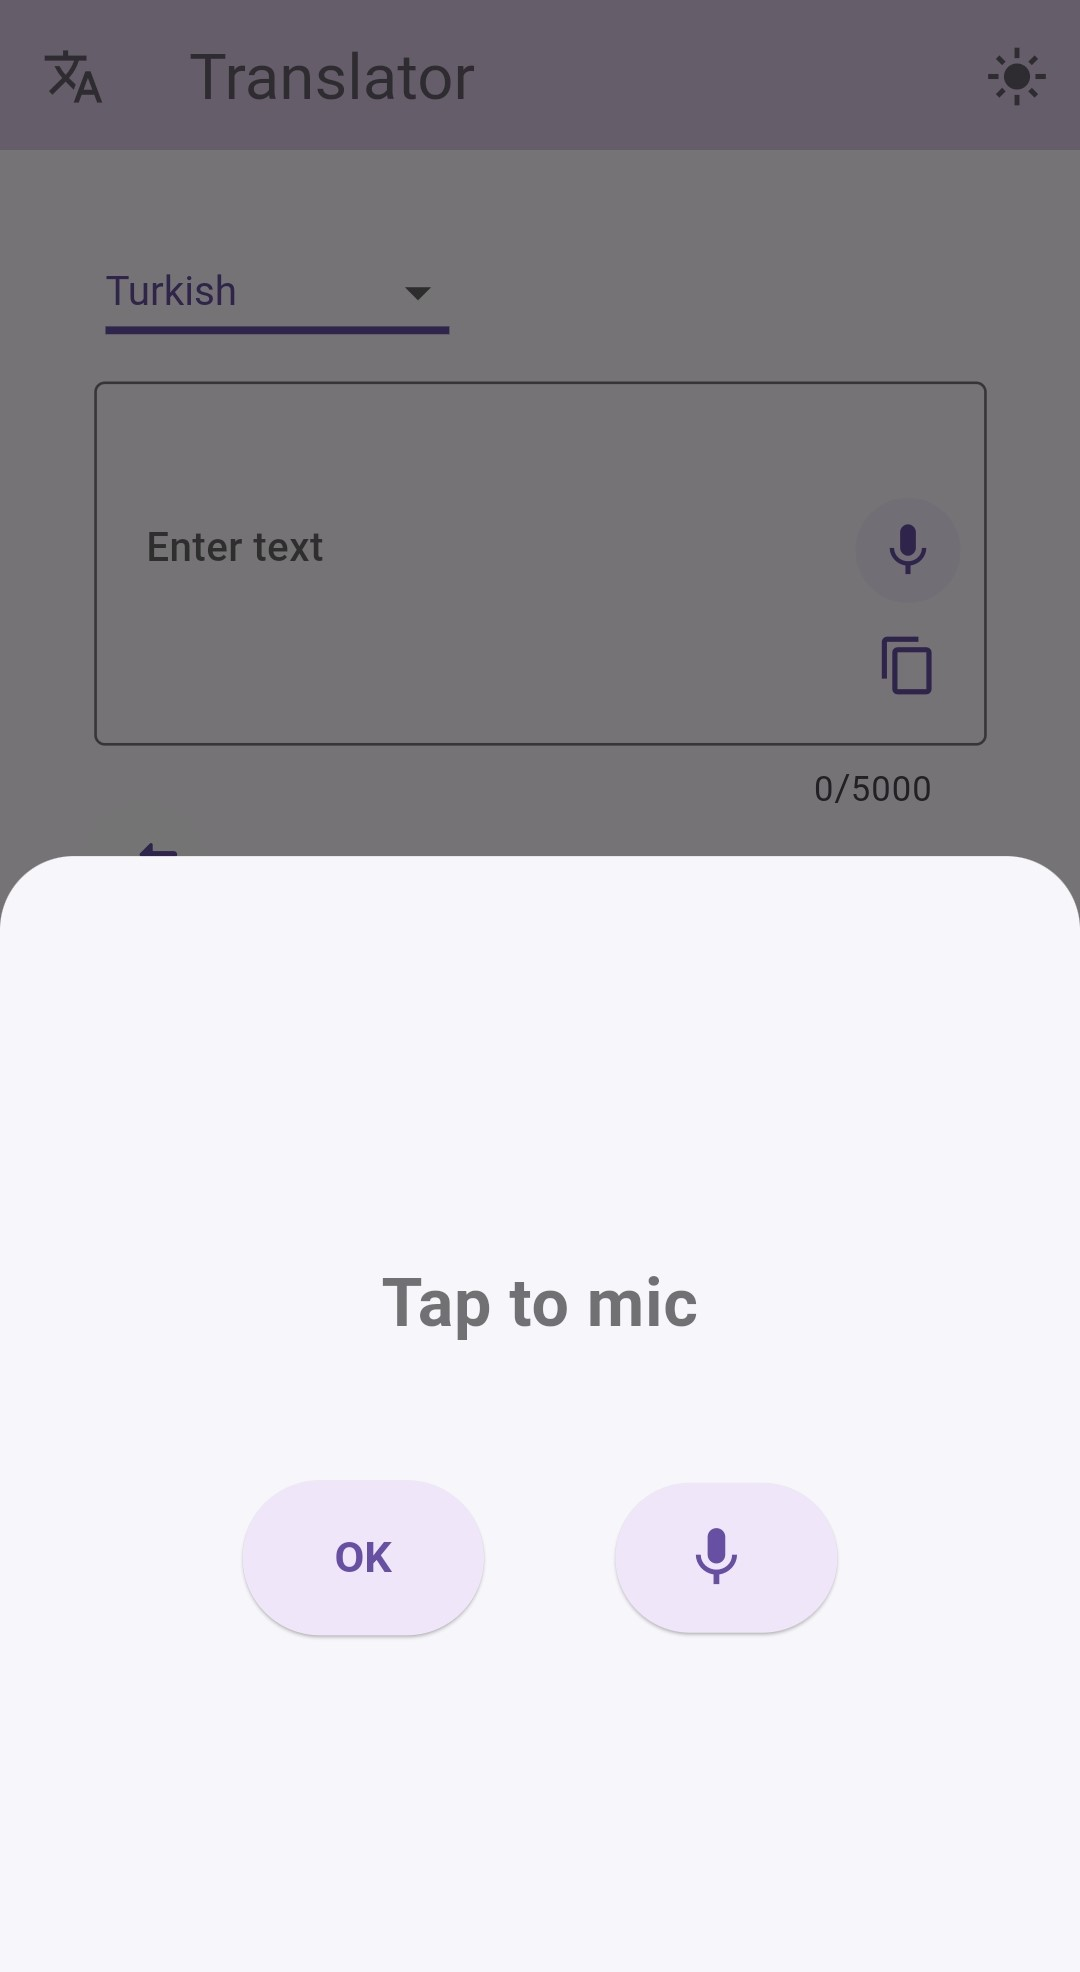
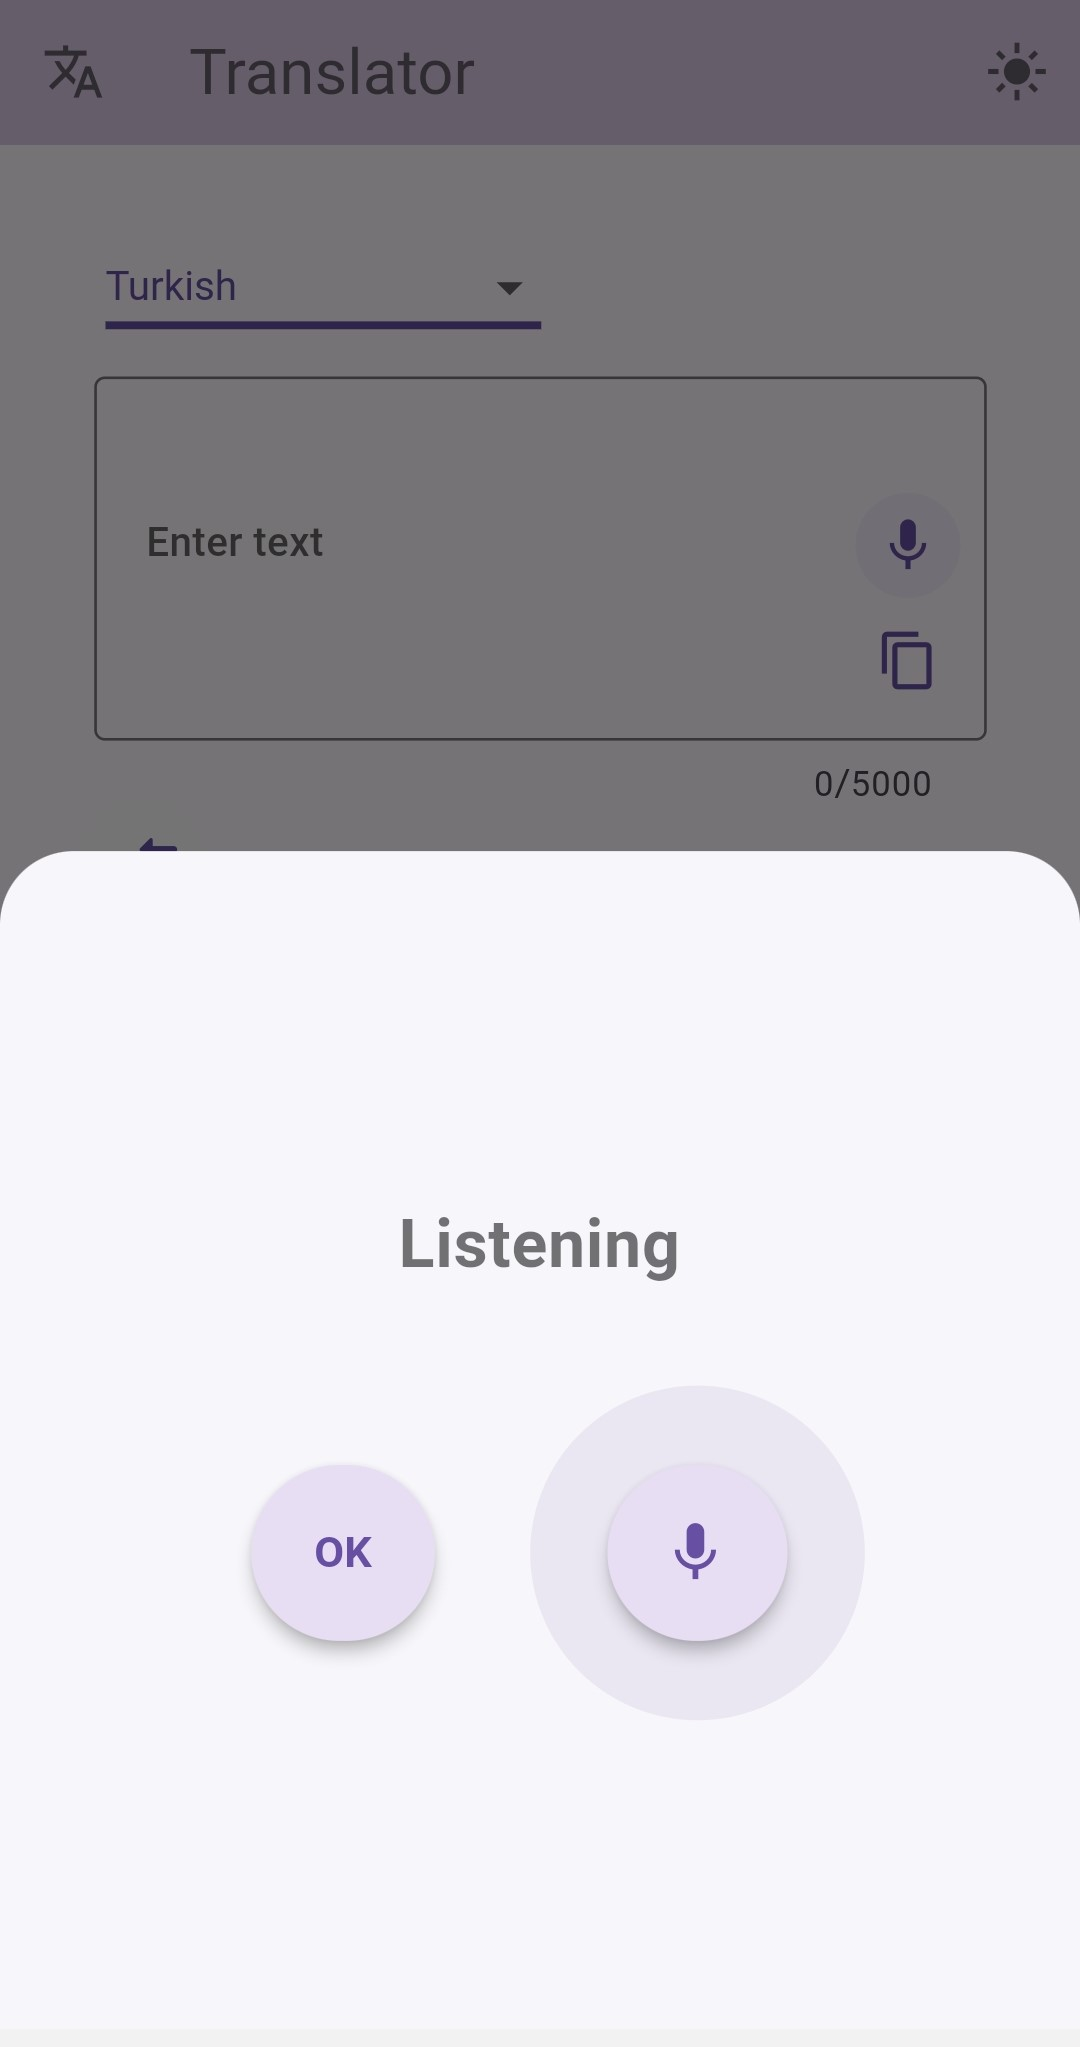
README updated | Error messages added for the users

diff --git a/lib/cubit/translator/translator_view.dart b/lib/cubit/translator/translator_view.dart
@@ -59,7 +59,17 @@ class TranslatorView extends StatelessWidget {
       body: SingleChildScrollView(
         child: Column(children: [
           BlocConsumer<TranslatorCubit, TranslatorStates>(
-              listener: (context, state) {},
+              listener: (context, state) {
+                if(state is ErrorState){
+                ScaffoldMessenger.of(context).showSnackBar(
+                SnackBar(
+                content: Text("Translator Error : ${state.message}")
+                )
+                );
+                locator.get<TranslatorCubit>().fetchTranslatorPage("");
+
+                }
+              },
               builder: (context, state) {
                 if (state is TranslatorInitialState) {
                   return TranslatorPage(
@@ -104,6 +114,14 @@ class TranslatorView extends StatelessWidget {
               }
               speechBottomSheet(context, "Try again");
             }
+            else if(state is SpeechErrorState){
+              ScaffoldMessenger.of(context).showSnackBar(
+                  SnackBar(
+                      content: Text("Speech Error : ${state.message}")
+                  ));
+              locator.get<TranslatorCubit>().fetchTranslatorPage("");
+                  }
+
 
           }, builder: (context, state) {
             if (state is MicAvailableState) {

diff --git a/lib/cubit/translator/translator_cubit.dart b/lib/cubit/translator/translator_cubit.dart
@@ -17,8 +17,12 @@ class TranslatorCubit extends Cubit<TranslatorStates> {
     try {
       final response = await _repository.fetchTranslateResult(data!);
       debugPrint('Response : $response');
-      emit(ResponseState(data.text, response?.data?.translatedText, data.sourceLan,
-          data.targetLan));
+      if (response?.data?.translatedText != null) {
+        emit(ResponseState(data.text, response?.data?.translatedText, data.sourceLan, data.targetLan));
+      } else {
+        emit(ErrorState('Response is null'));
+      }
+
     } catch (e) {
       emit(ErrorState('Translator Cubit Result Error : ${e.toString()}'));
     }

diff --git a/lib/cubit/speech_to_text/speech_to_text_cubit.dart b/lib/cubit/speech_to_text/speech_to_text_cubit.dart
@@ -13,7 +13,7 @@ class SpeechCubit extends Cubit<SpeechStates> {
     try {
       bool available = await _speechToText.initialize(
           onStatus: (status) => _onStatusChanged(status),
-          onError: (error) => emit(SpeechErrorState('Error: $error')),
+          onError: (error) => emit(SpeechErrorState('Speech Initialization Error: $error')),
       );
 
       if (available) {

diff --git a/README.md b/README.md
@@ -7,6 +7,7 @@ This is a Flutter-based Translator App designed to translate text and provide sp
 - Text Translation: Translate text between various languages.
 - Speech-to-Text: Recognize speech input and convert it into text.
 - Dynamic Theme: Switch between light and dark themes.
+- Animation : Ripple Effect Animation during microphone listening.
 
 ## Usage
 
@@ -55,7 +56,7 @@ Press the "Translate" button to see the translated text in the output field. To 
 
 
 ## API Integration
-The app retrieves data from [Free Google Translator](https://rapidapi.com/joshimuddin8212/api/free-google-translator) through Rapid API. Network requests are managed using Retrofit and Dio for efficient data handling and real-time translations.
+The app retrieves data from [Text Translator](https://rapidapi.com/dickyagustin/api/text-translator2) through Rapid API. Network requests are managed using Retrofit and Dio for efficient data handling and real-time translations.
 
 
 ## Architecture
@@ -70,11 +71,12 @@ The app’s state management is handled using Cubit from the flutter_bloc packag
 
 ## Acknowledgments
 
-- Free Google Translator API : For providing translator functionality
+- Text Translator API : For providing translator functionality ([https://rapidapi.com/dickyagustin/api/text-translator2])
 - speech_to_text package : For recognizing speech input. ([speech_to_text-link](https://pub.dev/packages/speech_to_text)
 - retrofit and dio packages: For network requests. ([retrofit-link](https://pub.dev/packages/retrofit),[dio-link](https://pub.dev/packages/dio)
 - flutter_bloc package : For the Cubit state management. ([block-link](https://pub.dev/packages/flutter_bloc))
 - get_it package : For dependency injection. ([get_it-link](https://pub.dev/packages/get_it))
+- MyPainter class, Animation, Animation Controller : For the ripple effect animation.
 - Flutter : For the framework.
 
 ## Contributing
